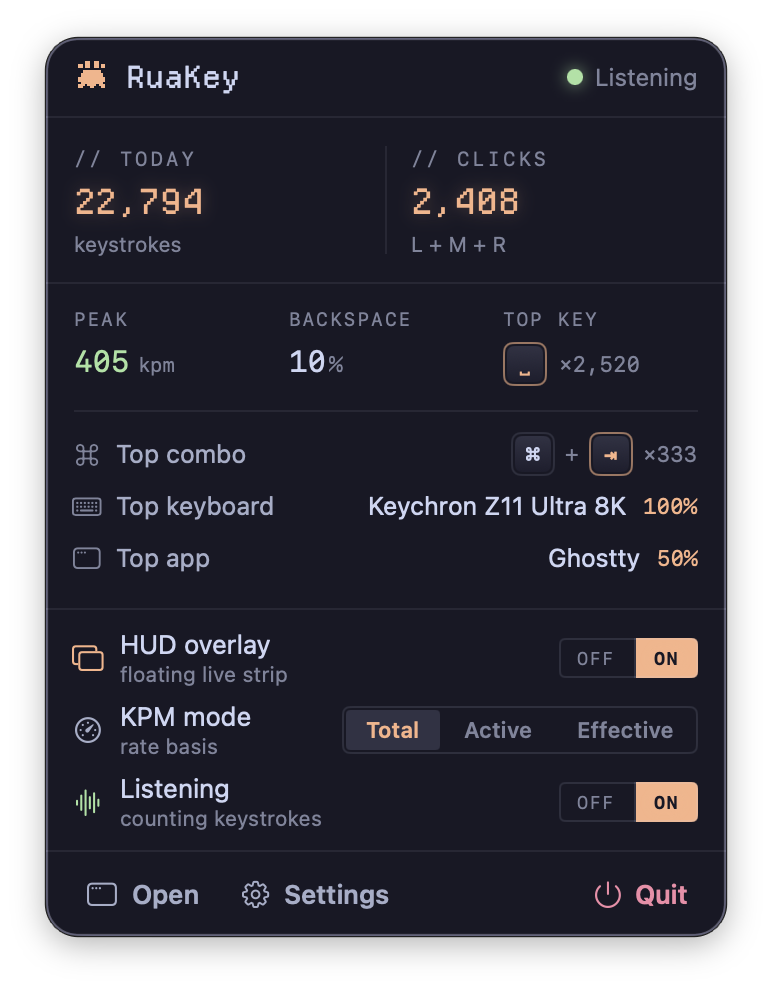
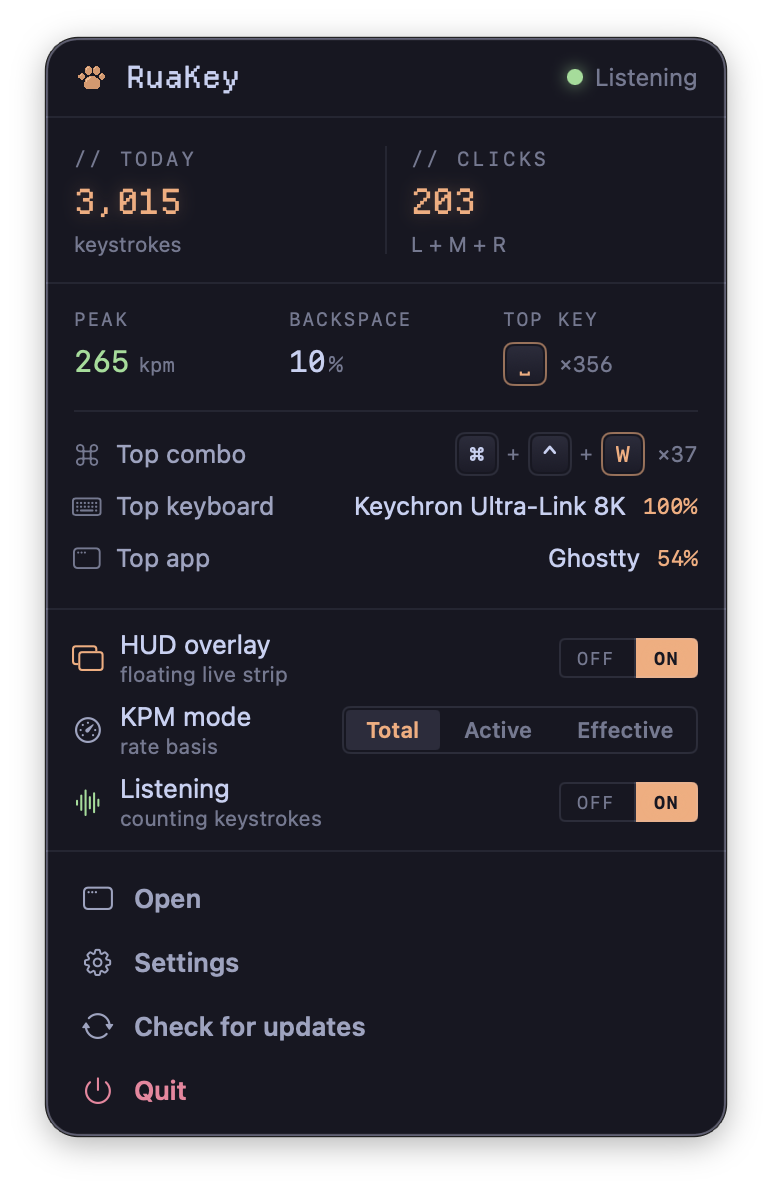
docs: refresh README screenshots; note Intel support (universal binary)

diff --git a/README.md b/README.md
@@ -9,7 +9,7 @@ See *how* you type — without ever recording *what* you type.
 
 [![Download latest](https://img.shields.io/github/v/release/ryekee/RuaKey-releases?label=Download&style=for-the-badge&color=fab387)](https://github.com/ryekee/RuaKey-releases/releases/latest)
 
-macOS 14+ · Apple Silicon · lives in your menu bar
+macOS 14+ · Apple Silicon & Intel · lives in your menu bar
 
 </div>
 